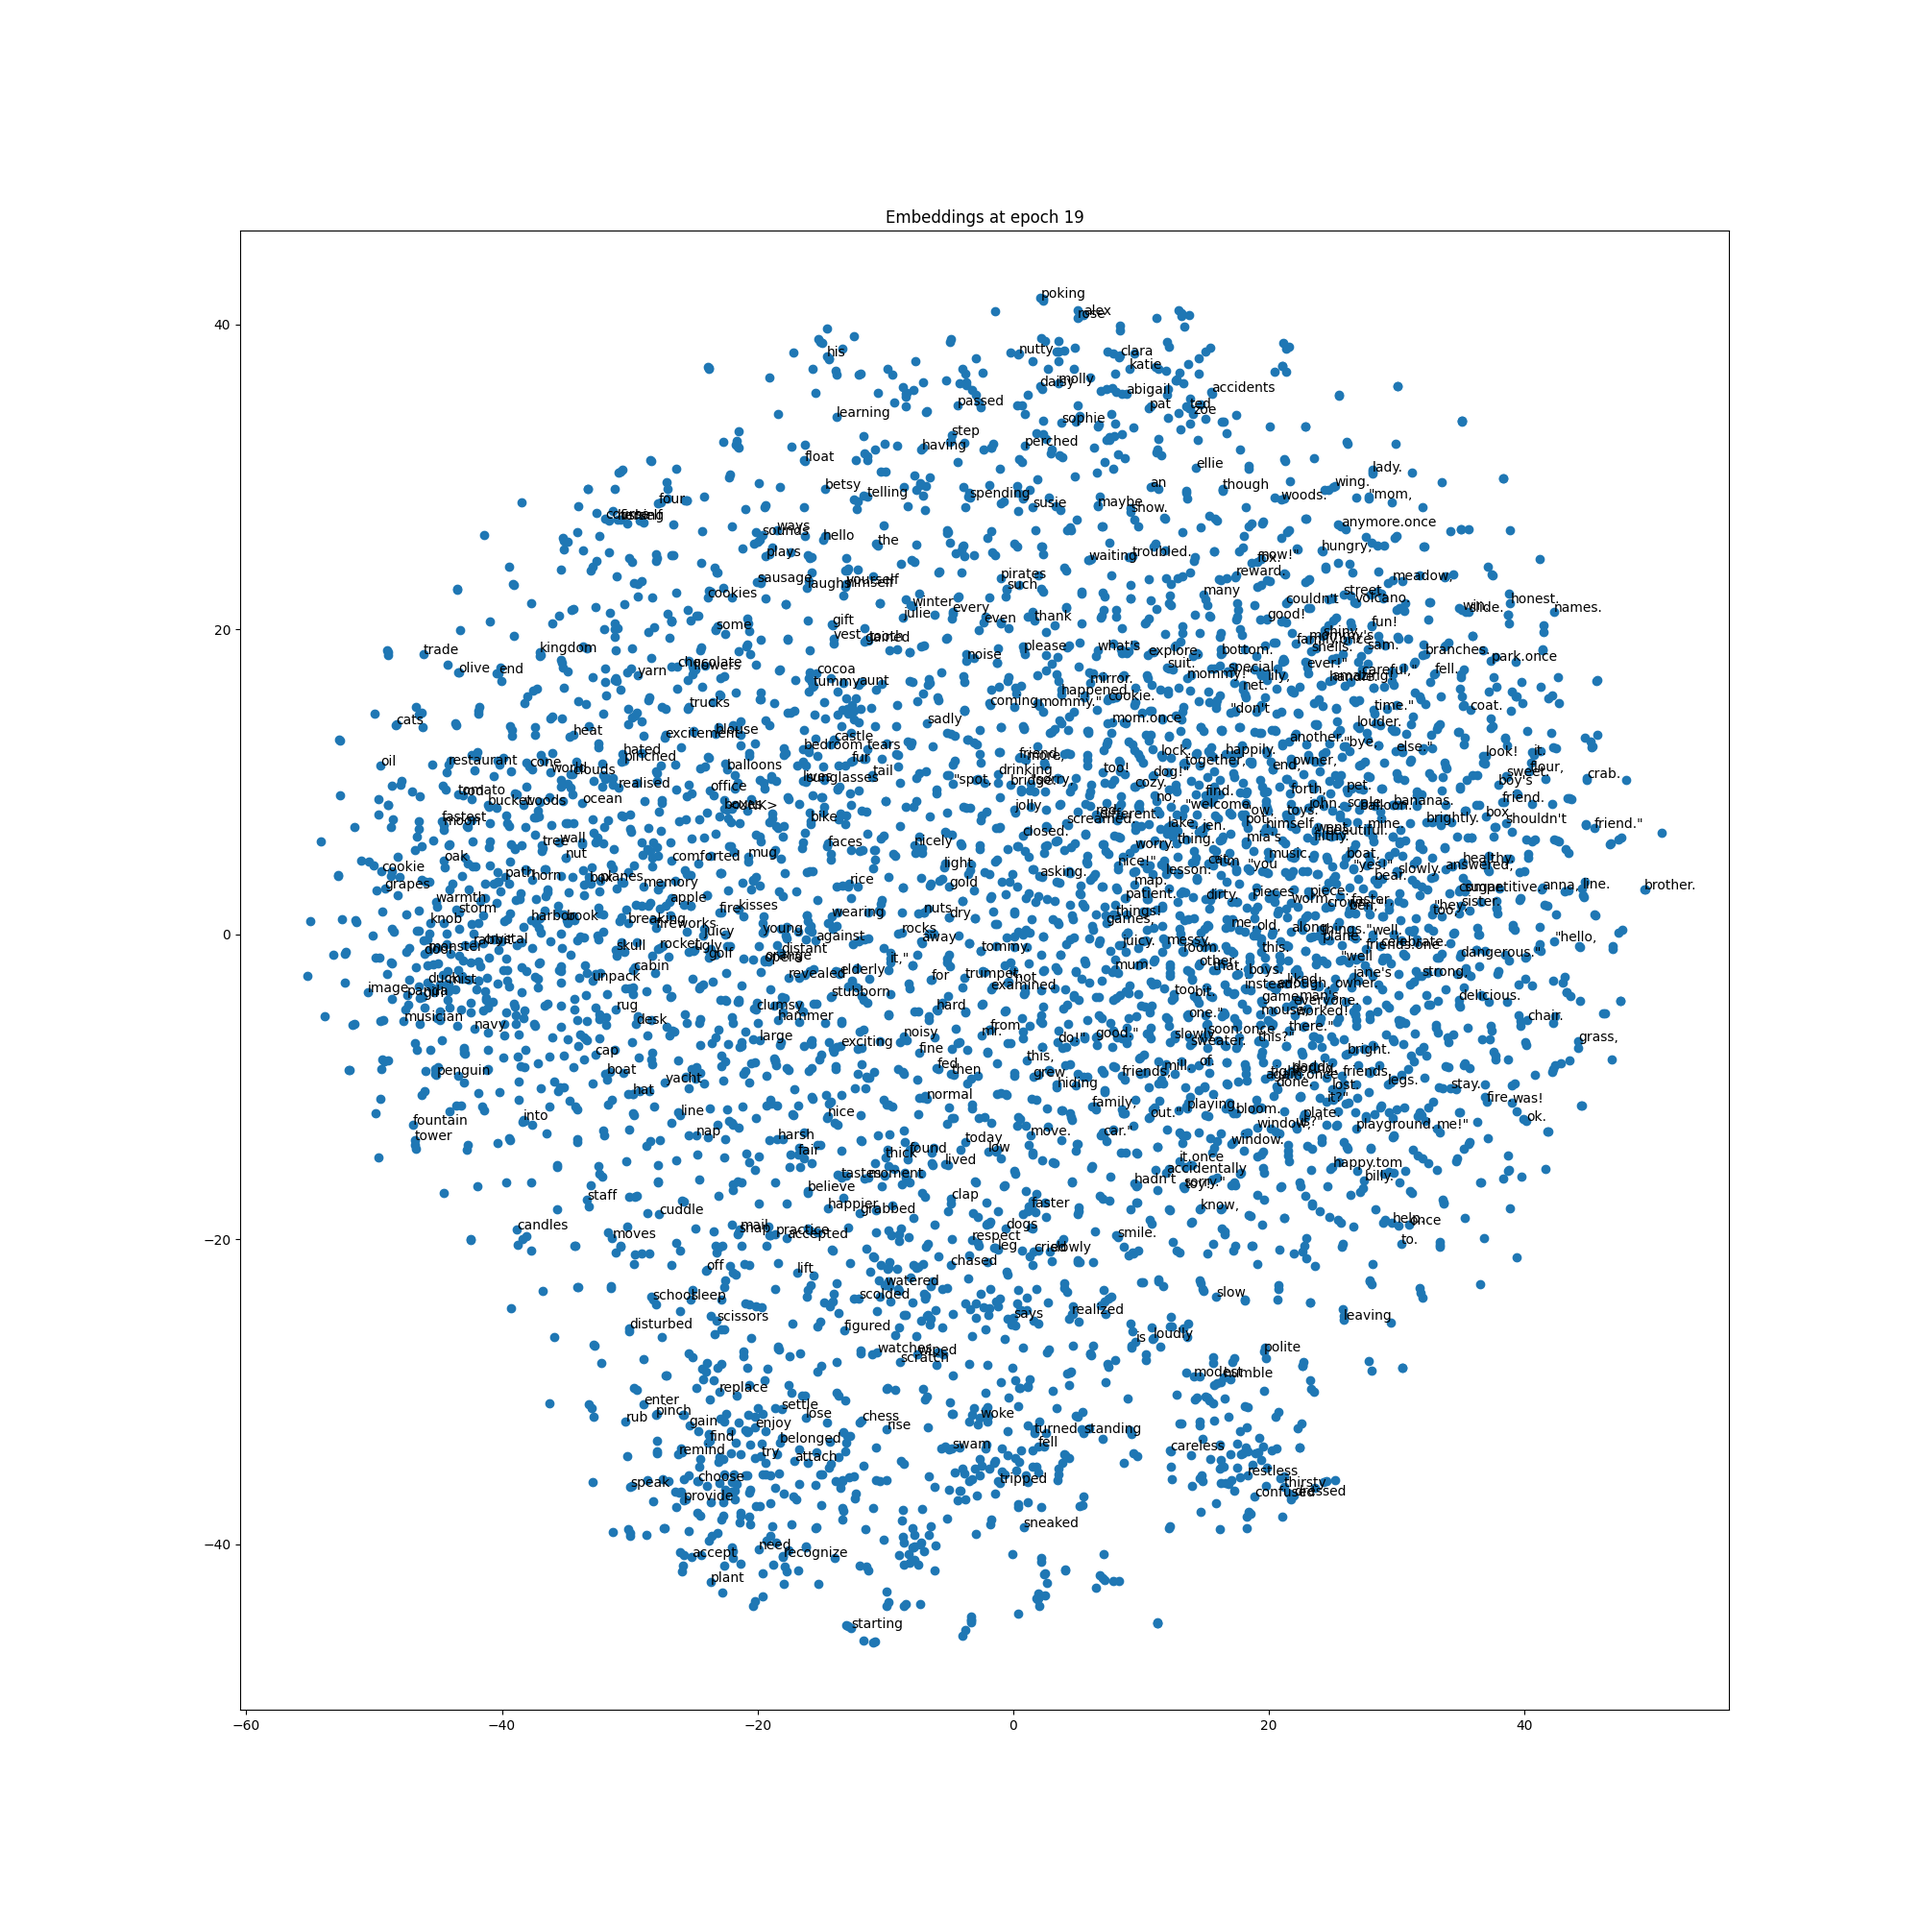
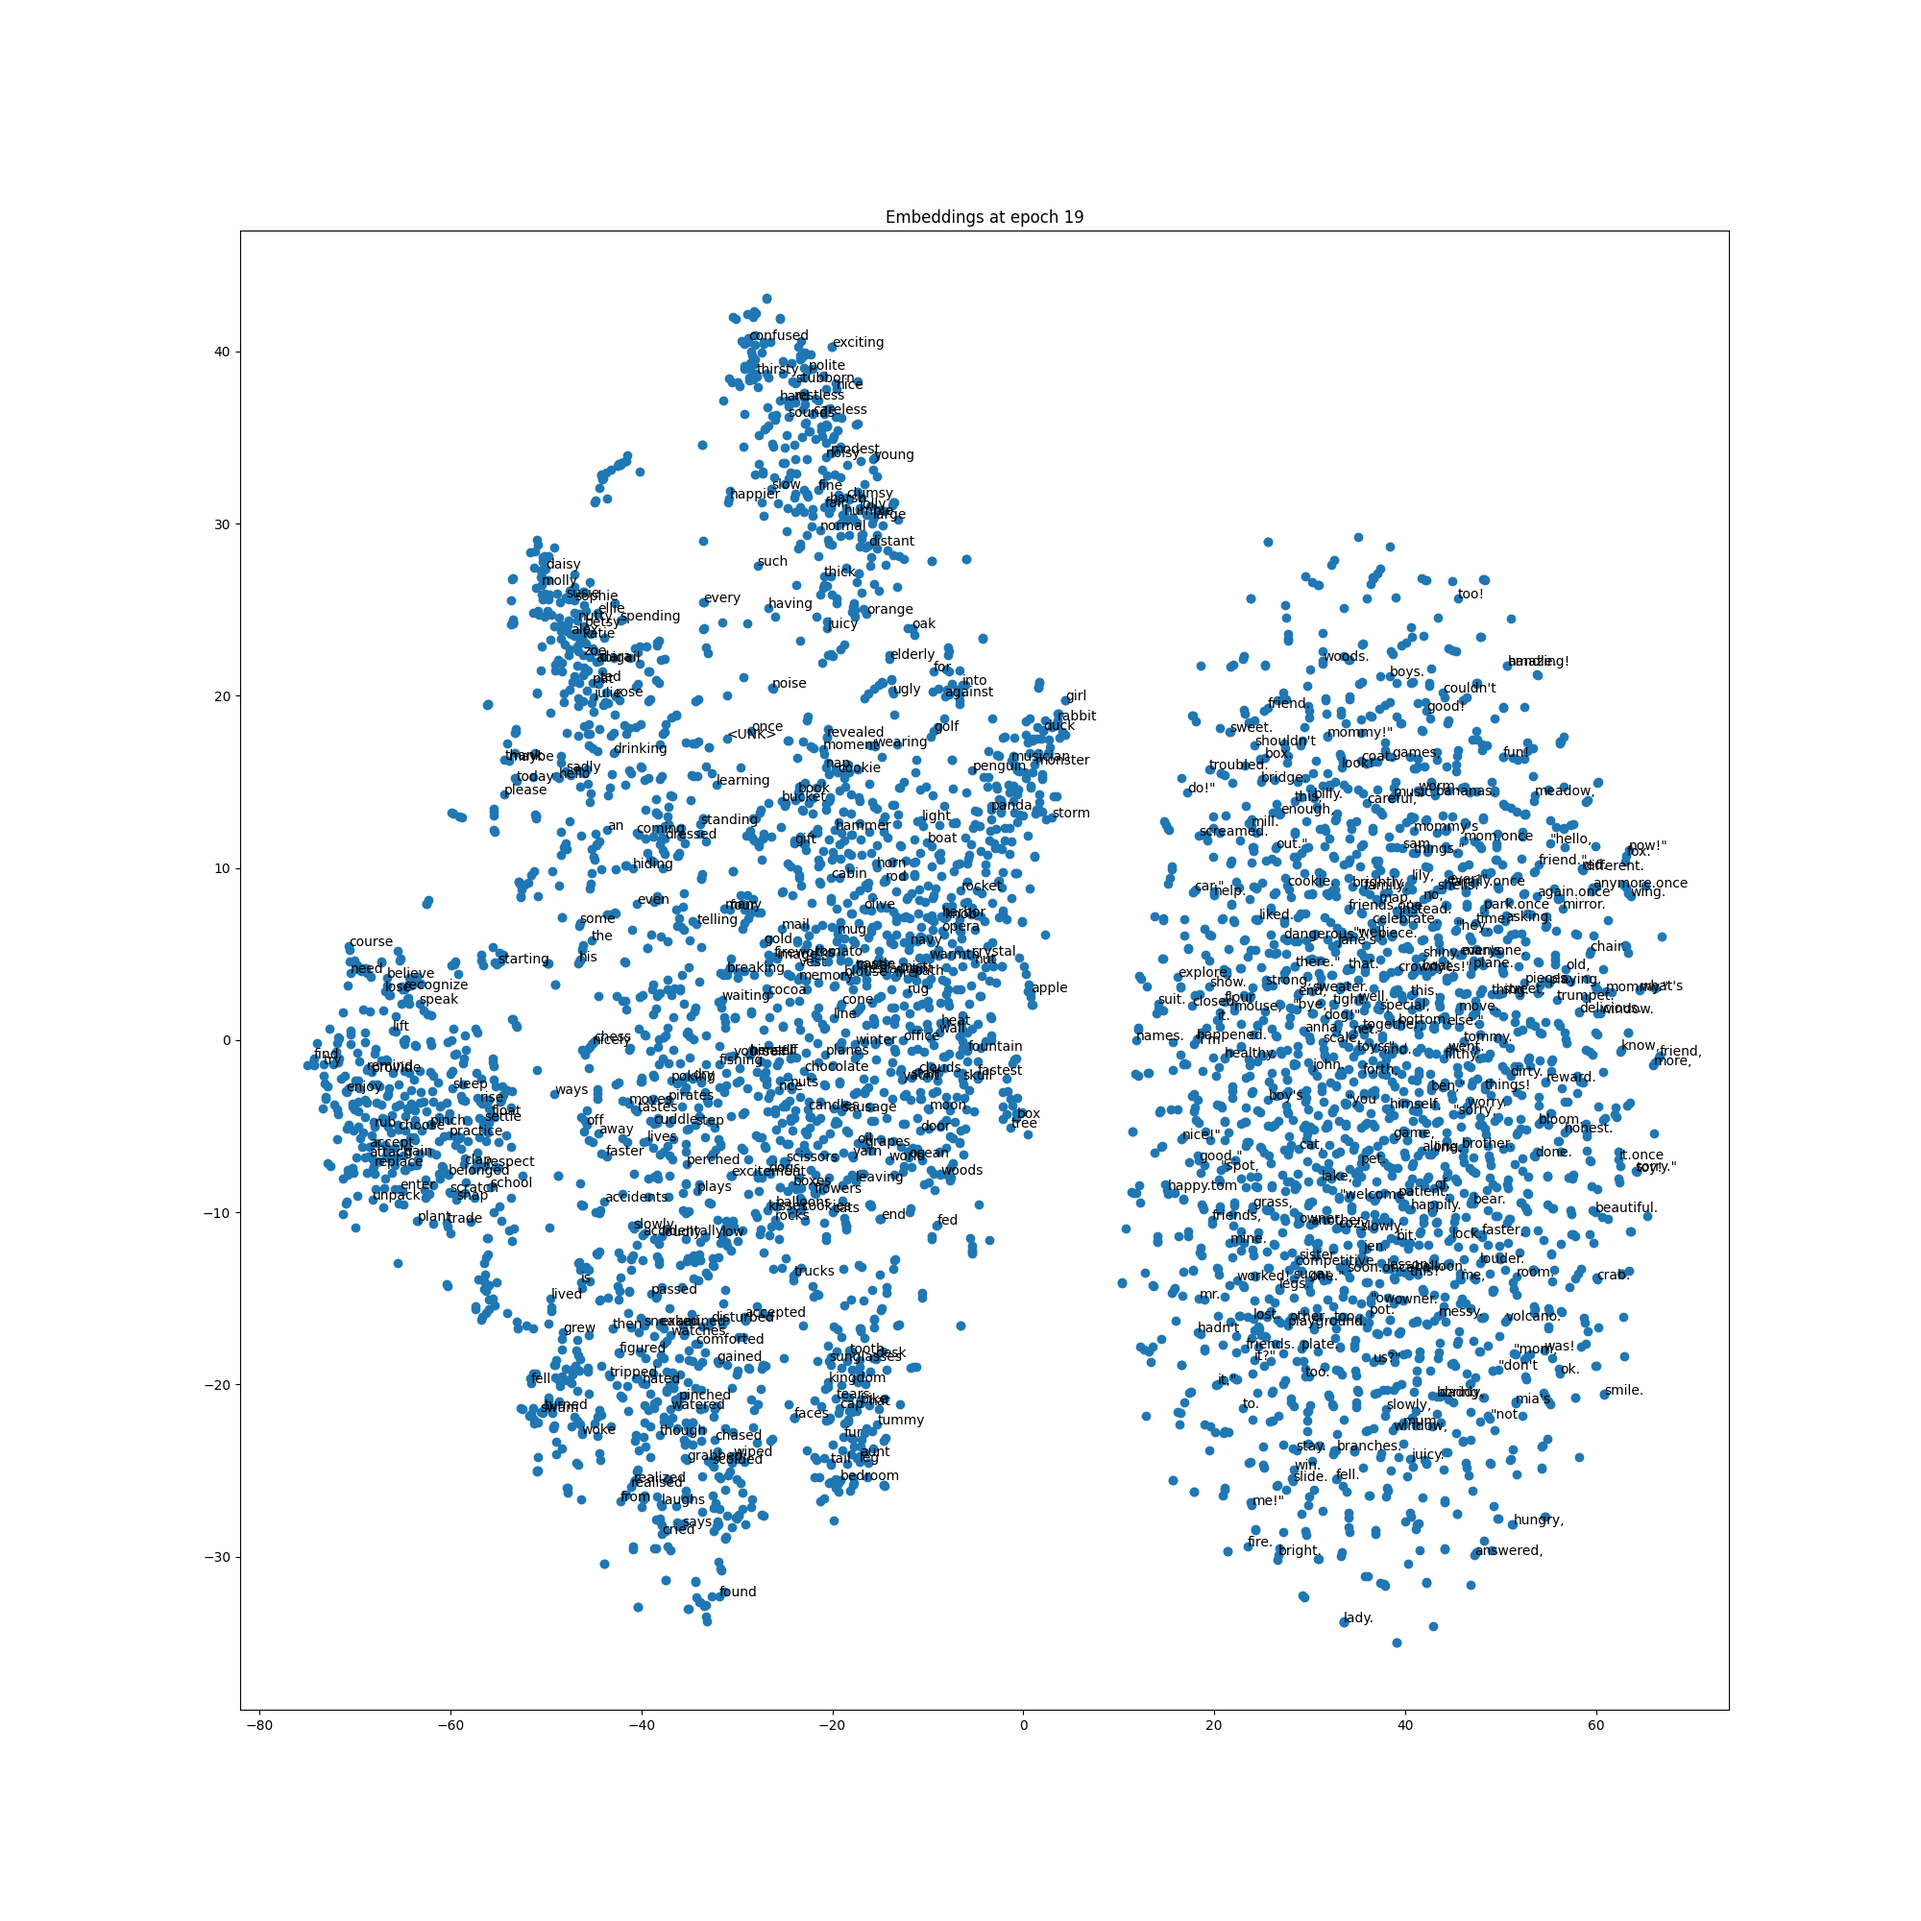
updated hyperparameter

Changed region(s): [[0.155, 0.155, 0.868, 0.868]]

diff --git a/word2vec/train.py b/word2vec/train.py
@@ -166,9 +166,9 @@ def train(model, train_dataset, validation_dataset, vocab, wandb_online=True):
     # OOM issues in gradescope's autograder
     ############################################################
     # 5a) hyperparameters and loss function
-    batch_size = 35 #40
-    num_epochs = 25 #20
-    learning_rate = 0.01#0.
+    batch_size = 128 #40
+    num_epochs = 35 #20
+    learning_rate = 0.0007#0.
     loss_fn = torch.nn.CrossEntropyLoss()
     ############################################################
     # STUDENT IMPLEMENTATION END
